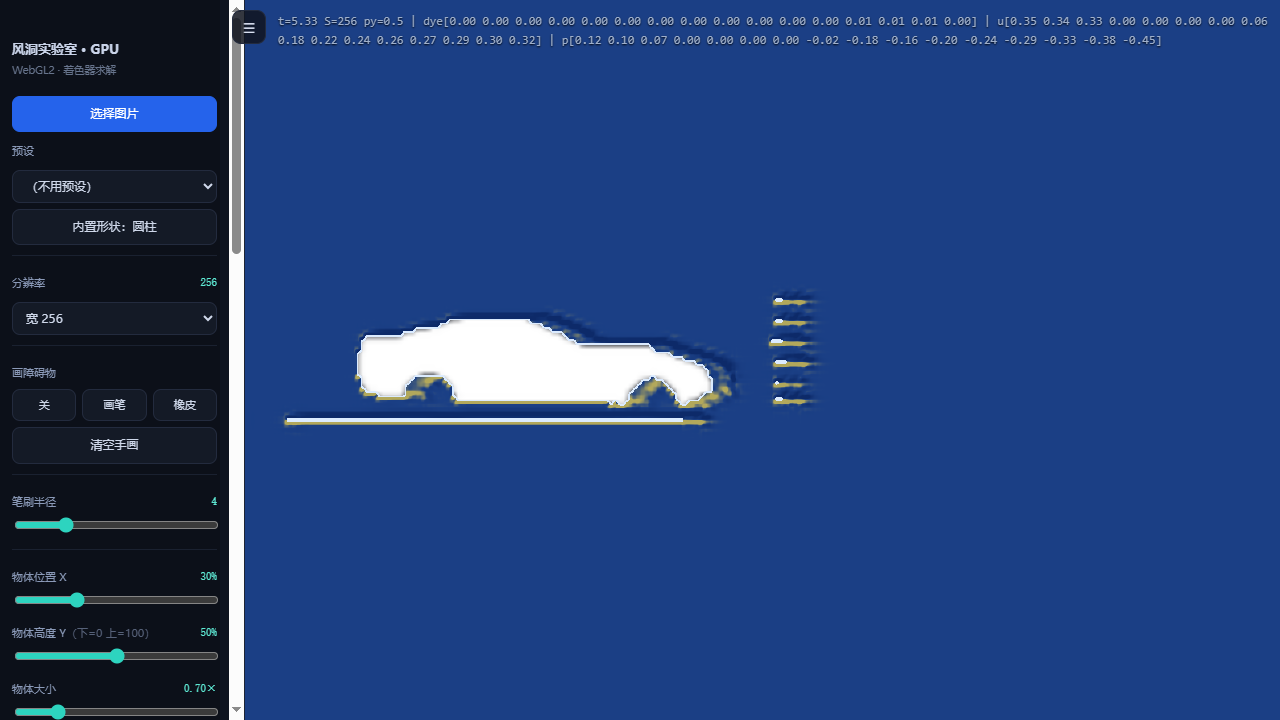
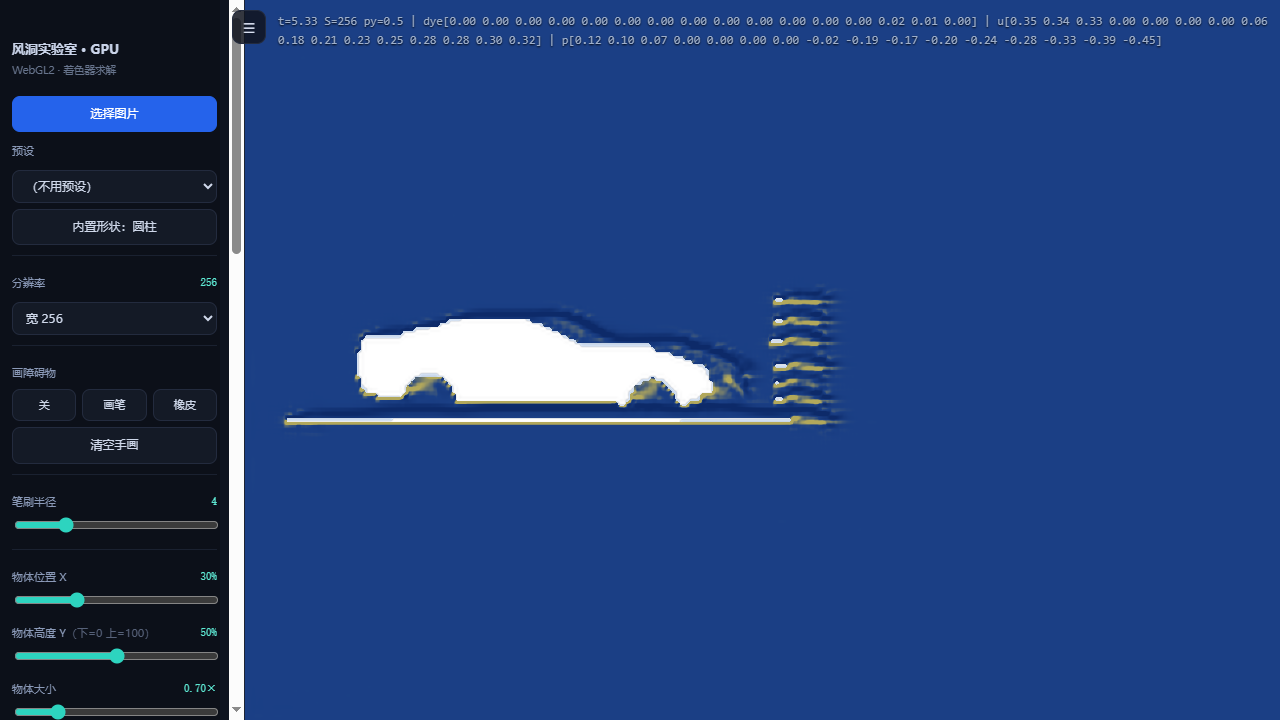
导入的图片不再糊：物体颜色按屏幕分辨率画
之前 maskColor 和固体掩码一样按网格分辨率（如 256x150）上传，放大到屏幕上必糊。
现在两张贴图分工：
- solid（R8，网格分辨率）：只管物理
- maskColor（RGBA8，网格 x MK，MK 按画布像素算、最高 4 倍、上限 2048）：只管好看，
  原图直接画上去，不在中间缩一次

白边改成看颜色贴图的 alpha 做平滑过渡（按网格掩码描边是一圈格子锯齿）。
手画的墙也走同一张颜色贴图（浅灰、不透明），顺带修了画了看不见的问题。
selftest 的画笔落点断言同步改成「期望处应该是墙色」。

Changed region(s): [[0.3125, 0.3972, 0.6562, 0.6111], [0.2812, 0.4583, 0.3125, 0.4889]]

diff --git a/gpu/gpu-fluid.html b/gpu/gpu-fluid.html
@@ -470,13 +470,10 @@
       vec4 m = texture(uMask, fuv);
       vec3 col = mix(vec3(0.05,0.06,0.09), m.rgb * (dimSolid == 1 ? 0.45 : 1.0),
                      clamp(m.a, 0.0, 1.0));
-      // 白边：四个邻格里有流体就描一条白线（参考 app 的观感）
+      // 白边：用**高分辨率**颜色贴图的 alpha 判断（按网格掩码描边会有格子锯齿）
       if (outlineOn == 1) {
-        float n = texture(uSolid, fuv + vec2(texel.x, 0.0)).r
-                + texture(uSolid, fuv - vec2(texel.x, 0.0)).r
-                + texture(uSolid, fuv + vec2(0.0, texel.y)).r
-                + texture(uSolid, fuv - vec2(0.0, texel.y)).r;
-        if (n < 3.5) col = vec3(0.86, 0.92, 1.0);
+        float rim = 1.0 - smoothstep(0.60, 0.98, m.a);
+        col = mix(col, vec3(0.86, 0.92, 1.0), rim * 0.9);
       }
       fragColor = vec4(col, 1.0);
       return;
@@ -635,6 +632,7 @@
     return Math.max(48, Math.min(2048, Math.round(sx * ratio)));
   }
   let vel, pressure, divergence, dye, solid, maskColor, velSmall;
+  let MK = 1;                        // 颜色贴图的超采样倍数（1..4）
   const VW = 160;                    // 速度小图分辨率（流线积分的输入）
   // 显式 ping-pong 变量：每一步明确读哪个写哪个
   let vA, vB, pA, pB, dA, dB, pa, pb;
@@ -653,7 +651,11 @@
            makeTarget(S, SY, gl.RGBA16F, gl.RGBA, gl.HALF_FLOAT)];
     solid = makeTarget(S, SY, gl.R8, gl.RED, gl.UNSIGNED_BYTE);
     // 掩码的彩色版本：只用于显示（把原图贴回固体格），不参与物理
-    maskColor = makeTarget(S, SY, gl.RGBA8, gl.RGBA, gl.UNSIGNED_BYTE);
+    // 物体颜色贴图：按屏幕像素来（网格分辨率太低，放大就糊）。MK = 最多 4 倍超采样
+    MK = Math.max(1, Math.min(4, Math.ceil(
+      Math.max(cv.clientWidth || 1, cv.clientHeight || 1) / Math.max(S, SY))));
+    while (MK > 1 && (S * MK > 2048 || SY * MK > 2048)) MK--;
+    maskColor = makeTarget(S * MK, SY * MK, gl.RGBA8, gl.RGBA, gl.UNSIGNED_BYTE);
     // 速度小图：流线积分只读它（160² = 100KB，比读 512² 的 4MB 便宜 40 倍）
     velSmall = makeTarget(VW, VW, gl.RG16F, gl.RG, gl.HALF_FLOAT);
     [vel[0], vel[1], pressure[0], pressure[1], dye[0], dye[1], solid, maskColor, velSmall].forEach(clearTarget);
@@ -873,9 +875,49 @@
     solidBits = out;                  // 留一份在 JS 里：流线积分要判断"撞墙没有"
     // 同一张画布也当颜色贴图传上去（显示固体格用）。
     // 画布上传默认也是"顶行→t=0"，所以要开 UNPACK_FLIP_Y 和上面的行翻转保持一致。
+    // 颜色贴图：同一套变换按 MK 倍再画一遍（原图直接画，不在中间缩一次 → 不糊）
+    const cc = document.createElement('canvas');
+    cc.width = S * MK; cc.height = SY * MK;
+    const cg = cc.getContext('2d');
+    if (maskImg) {
+      const fit = Math.min(S, SY) * objScale / Math.max(maskImg.width, maskImg.height);
+      const w = maskImg.width * fit, h = maskImg.height * fit;
+      cg.save();
+      cg.scale(MK, MK);
+      cg.translate(objX * S, SY * (1 - objY));
+      cg.rotate(objAngle * Math.PI / 180);
+      cg.imageSmoothingQuality = 'high';
+      cg.drawImage(maskImg, -w / 2, -h / 2, w, h);
+      cg.restore();
+    }
+    // 手画的地方给个墙色（一次性拼一张小图再放大，别逐格 fillRect）
+    if (paint) {
+      let any = false;
+      for (let i = 0; i < paint.length && !any; i++) if (paint[i]) any = true;
+      if (any) {
+        const pc = document.createElement('canvas');
+        pc.width = S; pc.height = SY;
+        const pg = pc.getContext('2d');
+        const id = pg.createImageData(S, SY);
+        for (let y = 0; y < SY; y++) {
+          const fy = SY - 1 - y;              // 场行 → 画布行
+          for (let x = 0; x < S; x++) {
+            if (!paint[fy * S + x]) continue;
+            const o = (y * S + x) * 4;
+            id.data[o] = 226; id.data[o + 1] = 232; id.data[o + 2] = 240; id.data[o + 3] = 255;
+          }
+        }
+        pg.putImageData(id, 0, 0);
+        cg.save();
+        cg.scale(MK, MK);
+        cg.imageSmoothingEnabled = false;     // 手画是格子的，别糊
+        cg.drawImage(pc, 0, 0);
+        cg.restore();
+      }
+    }
     gl.bindTexture(gl.TEXTURE_2D, maskColor.tex);
     gl.pixelStorei(gl.UNPACK_FLIP_Y_WEBGL, true);
-    gl.texImage2D(gl.TEXTURE_2D, 0, gl.RGBA8, gl.RGBA, gl.UNSIGNED_BYTE, c);
+    gl.texImage2D(gl.TEXTURE_2D, 0, gl.RGBA8, gl.RGBA, gl.UNSIGNED_BYTE, cc);
     gl.pixelStorei(gl.UNPACK_FLIP_Y_WEBGL, false);
     hasMask = true;
 
@@ -1975,7 +2017,9 @@
         // 期望落点：屏幕 72% 高处 = 从底部 28%
         const atExpected = readPx(0.5, 0.28);
         const atMirror = readPx(0.5, 0.72);
-        ok('画笔落点跟着指针', atExpected !== '#000' && atExpected.split(',')[0] < 200, '期望处=' + atExpected + ' 镜像处=' + atMirror);
+        // 画上去的墙是浅灰 (226,232,240)，背景是暗色 → 期望处应该"亮"
+        const eR = +atExpected.split(',')[0], mR = +atMirror.split(',')[0];
+        ok('画笔落点跟着指针', eR > 180 && mR < 120, '期望处=' + atExpected + ' 镜像处=' + atMirror);
       }
 
       // 物体中心 = 场坐标 (objX,objY)：画布行号必须是 S·(1−objY)

diff --git a/CHANGELOG.md b/CHANGELOG.md
@@ -36,6 +36,9 @@
   - 画笔**落点在上方**：`toGrid()` 的 y 乘了场宽 `S`，要乘场高 `SY`
 - **修：物体"变形"**：物理场原来是正方形，被拉成画布比例；现在场按画布比例走
   （`S×SY`，`?sim=` 只决定宽度），物体/流线/条纹的比例都正常了
+- **修：导入的图片太糊**。物体颜色原来按网格分辨率（256×150）上传，放大就糊；现在单独一张
+  **屏幕分辨率**的颜色贴图（网格 × MK，MK 按画布像素算，最高 4 倍），原图直接画、不在中间缩；
+  白边改用颜色贴图的 alpha 做平滑过渡（按网格描边是一圈格子锯齿）
 - 新增 15 项 `?selftest=1` 数字回归（画笔落点、屏幕↔场坐标、物体位置、GPU 掩码纹理……）
 - 查清上一版记的「条纹不流动」是**假警报**：探针行 y=0.5 正好落在条纹暗带上，
   而截图又是在无头浏览器只跑了 4 帧时拍的。染料前沿实测跟随 `u·t`（0.348 ≈ u=0.35）

diff --git a/gpu/README.md b/gpu/README.md
@@ -154,6 +154,18 @@ PASS 粒子纹理可用
 橡皮就是写 0。整张掩码每次重算（S² 循环 + `getImageData`），512² 下拖动会有十几毫秒，
 和 CPU 版同一个量级。
 
+### 物体为什么清楚（那条"糊"的坑）
+
+一开始物体颜色是按**网格分辨率**（256×150）上传的，放大到屏幕上就被双线性插值糊掉了。
+现在分两张贴图：
+
+- `solid`（R8，网格分辨率）—— 只管物理：哪一格是墙
+- `maskColor`（RGBA8，**网格 × MK**，MK = 1~4，按画布像素算）—— 只管好看：原图直接画上去，
+  不在中间缩一次（和 CPU 版的原则一样）
+
+白边也改成看 `maskColor.a` 的平滑过渡（`rim = 1 - smoothstep(0.6, 0.98, a)`）：
+按网格掩码描边会是一圈格子锯齿。
+
 ### 分辨率原地重建
 
 `S` 是 `let`，`allocTargets()` 负责删旧纹理、建新纹理、重绑 ping-pong 变量。
